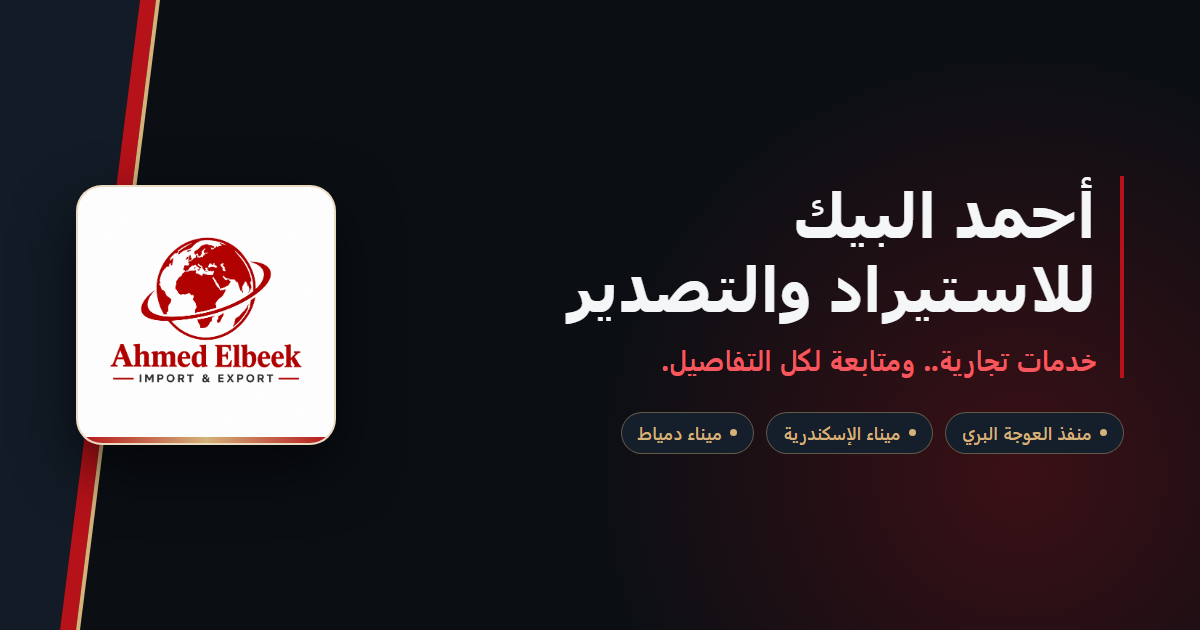
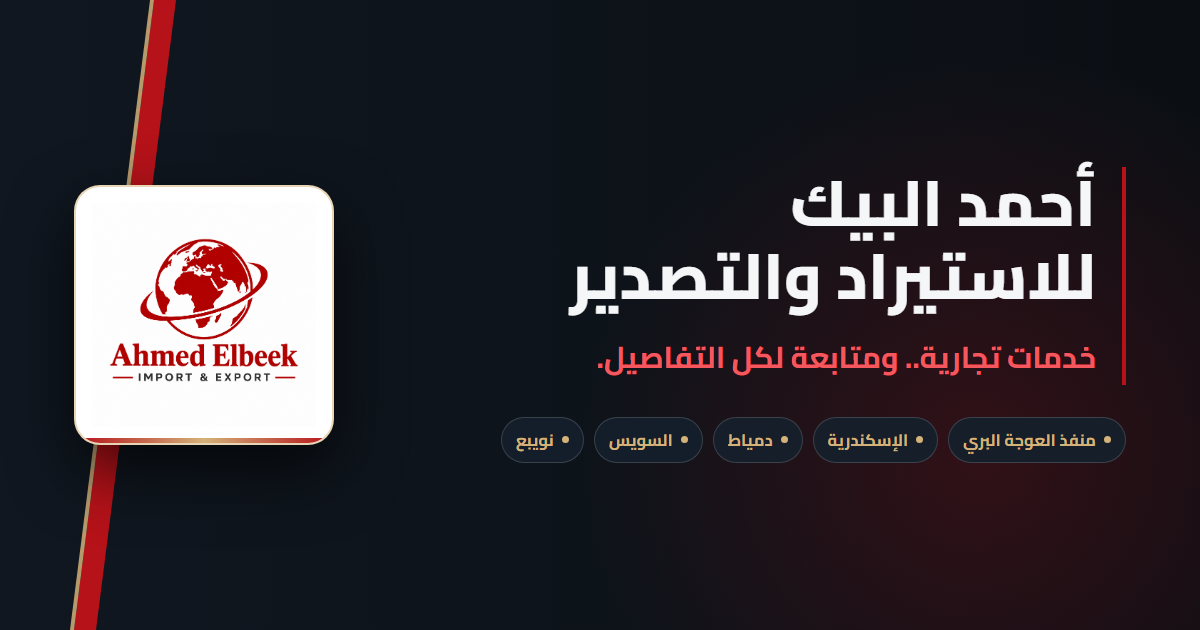
feat: add Suez and Nuweiba ports across content, locations, SEO, and OG cards

diff --git a/src/content/ar.ts b/src/content/ar.ts
@@ -6,7 +6,7 @@ export const arContent: SiteContent = {
   meta: {
     title: "أحمد البيك للاستيراد والتصدير | خدمات جمركية وشحن عبر المنافذ المصرية",
     description:
-      "شركة أحمد البيك للاستيراد والتصدير: خدمات الاستيراد والتصدير والتخليص الجمركي وتنسيق نقل البضائع عبر منفذ العوجة البري وميناء الإسكندرية وميناء دمياط.",
+      "شركة أحمد البيك للاستيراد والتصدير: خدمات الاستيراد والتصدير والتخليص الجمركي وتنسيق نقل البضائع عبر منفذ العوجة البري وموانئ الإسكندرية ودمياط والسويس ونويبع.",
   },
   brand: {
     title: "أحمد البيك",
@@ -32,12 +32,12 @@ export const arContent: SiteContent = {
     skipToContent: "تخطي إلى المحتوى الرئيسي",
   },
   hero: {
-    ports: ["منفذ العوجة البري", "ميناء الإسكندرية", "ميناء دمياط"],
+    ports: ["منفذ العوجة البري", "الإسكندرية", "دمياط", "السويس", "نويبع"],
     headlineLine1: "أحمد البيك",
     headlineLine2: "للاستيراد والتصدير",
     subheadline: "خدمات تجارية.. ومتابعة لكل التفاصيل.",
     description:
-      "خدمات الاستيراد والتصدير والتخليص الجمركي وتنسيق نقل البضائع عبر منافذ العوجة ودمياط والإسكندرية، بمتابعة دقيقة لكل شحنة.",
+      "خدمات الاستيراد والتصدير والتخليص الجمركي وتنسيق نقل البضائع عبر منافذ العوجة والإسكندرية ودمياط والسويس ونويبع، بمتابعة دقيقة لكل شحنة.",
     primaryCta: "تواصل معنا عبر واتساب",
     secondaryCta: "اكتشف خدماتنا",
     yardAlt: "ساحة منفذ العوجة البري وقت الغروب مع اصطفاف الشاحنات والعلم المصري",
@@ -48,8 +48,8 @@ export const arContent: SiteContent = {
       {
         id: "ports-covered",
         icon: "ports",
-        title: "3 منافذ رئيسية مغطاة",
-        subtitle: "العوجة • الإسكندرية • دمياط",
+        title: "5 منافذ رئيسية مغطاة",
+        subtitle: "العوجة • الإسكندرية • دمياط • السويس • نويبع",
       },
       {
         id: "import-export",
@@ -81,7 +81,7 @@ export const arContent: SiteContent = {
     pillars: [
       {
         label: "نطاق التشغيل",
-        value: "منافذ برية وبحرية رئيسية (العوجة، الإسكندرية، دمياط)",
+        value: "منافذ برية وبحرية رئيسية (العوجة، الإسكندرية، دمياط، السويس، نويبع)",
       },
       {
         label: "مجال العمل",
@@ -154,7 +154,7 @@ export const arContent: SiteContent = {
     eyebrow: "نطاق عملنا",
     heading: "تواجد فعلي في أهم المنافذ.",
     description:
-      "تنفذ الشركة عملياتها عبر شبكة من المنافذ البرية والبحرية المحورية في مصر، مع حضور ميداني في منفذ العوجة البري وميناء الإسكندرية وميناء دمياط.",
+      "تنفذ الشركة عملياتها عبر شبكة من المنافذ البرية والبحرية المحورية في مصر، مع حضور وتنسيق ميداني في منفذ العوجة البري وموانئ الإسكندرية ودمياط والسويس ونويبع.",
     items: [
       {
         id: "al-awja",
@@ -183,6 +183,20 @@ export const arContent: SiteContent = {
         imageSrc: "/images/damietta-port.jpg",
         imageAlt: "برج المراقبة البحرية والوحدات الملاحية في ميناء دمياط",
         objectPosition: "50% 48%",
+      },
+    ],
+    secondaryPorts: [
+      {
+        id: "suez",
+        name: "ميناء السويس",
+        typeBadge: "ميناء بحري",
+        role: "تنسيق إجراءات التخليص الجمركي وحركة الشحنات والحاويات الواردة والصادرة عبر ميناء السويس.",
+      },
+      {
+        id: "nuweiba",
+        name: "ميناء نويبع",
+        typeBadge: "ميناء بحري",
+        role: "متابعة حركة الشاحنات والبضائع وتنسيق الإجراءات الجمركية للعبور عبر ميناء نويبع.",
       },
     ],
     flexibilityNote:
@@ -273,7 +287,7 @@ export const arContent: SiteContent = {
   },
   footer: {
     summary:
-      "خدمات الاستيراد والتصدير والتخليص الجمركي وتنسيق نقل البضائع عبر منفذ العوجة البري وميناء الإسكندرية وميناء دمياط.",
+      "خدمات الاستيراد والتصدير والتخليص الجمركي وتنسيق نقل البضائع عبر منفذ العوجة البري وموانئ الإسكندرية ودمياط والسويس ونويبع.",
     navigationTitle: "روابط سريعة",
     contactTitle: "بيانات التواصل",
     copyright: "© 2026 أحمد البيك للاستيراد والتصدير. جميع الحقوق محفوظة.",

diff --git a/src/content/en.ts b/src/content/en.ts
@@ -6,7 +6,7 @@ export const enContent: SiteContent = {
   meta: {
     title: "Ahmed Elbeek Import & Export | Customs Clearance & Port Logistics",
     description:
-      "Ahmed Elbeek Import & Export provides import, export, customs clearance, and cargo transport coordination across Al-Awja Land Port, Alexandria Port, and Damietta Port.",
+      "Ahmed Elbeek Import & Export provides import, export, customs clearance, and cargo transport coordination across Al-Awja Land Port and Alexandria, Damietta, Suez, and Nuweiba ports.",
   },
   brand: {
     title: "Ahmed Elbeek",
@@ -32,12 +32,12 @@ export const enContent: SiteContent = {
     skipToContent: "Skip to main content",
   },
   hero: {
-    ports: ["Al-Awja Land Port", "Alexandria Port", "Damietta Port"],
+    ports: ["Al-Awja Land Port", "Alexandria", "Damietta", "Suez", "Nuweiba"],
     headlineLine1: "Ahmed Elbeek",
     headlineLine2: "Import & Export",
     subheadline: "Trade Services. Every Detail Followed.",
     description:
-      "Import, export, customs clearance, and cargo transport coordination across Al-Awja, Damietta, and Alexandria ports with dedicated follow-up.",
+      "Import, export, customs clearance, and cargo transport coordination across Al-Awja, Alexandria, Damietta, Suez, and Nuweiba ports with dedicated follow-up.",
     primaryCta: "Contact via WhatsApp",
     secondaryCta: "Explore Services",
     yardAlt: "Twilight view of Al-Awja Land Port yard with cargo trucks and the Egyptian flag",
@@ -48,8 +48,8 @@ export const enContent: SiteContent = {
       {
         id: "ports-covered",
         icon: "ports",
-        title: "3 Key Ports Covered",
-        subtitle: "Al-Awja • Alexandria • Damietta",
+        title: "5 Key Ports Covered",
+        subtitle: "Al-Awja • Alexandria • Damietta • Suez • Nuweiba",
       },
       {
         id: "import-export",
@@ -81,7 +81,7 @@ export const enContent: SiteContent = {
     pillars: [
       {
         label: "Operating Scope",
-        value: "Key land & sea gateways (Al-Awja, Alexandria, Damietta)",
+        value: "Key land & sea gateways (Al-Awja, Alexandria, Damietta, Suez, Nuweiba)",
       },
       {
         label: "Core Services",
@@ -155,7 +155,7 @@ export const enContent: SiteContent = {
     eyebrow: "Operating Locations",
     heading: "Active Presence Across Key Gateways.",
     description:
-      "Operations are coordinated across major Egyptian land and sea ports, with active coverage at Al-Awja Land Port, Alexandria Port, and Damietta Port.",
+      "Operations are coordinated across major Egyptian land and sea ports, covering Al-Awja Land Port along with Alexandria, Damietta, Suez, and Nuweiba maritime ports.",
     items: [
       {
         id: "al-awja",
@@ -184,6 +184,20 @@ export const enContent: SiteContent = {
         imageSrc: "/images/damietta-port.jpg",
         imageAlt: "Port control tower and vessels at Damietta Port",
         objectPosition: "50% 48%",
+      },
+    ],
+    secondaryPorts: [
+      {
+        id: "suez",
+        name: "Suez Port",
+        typeBadge: "Sea Port",
+        role: "Coordinating customs clearance, container handling, and commercial import/export cargo through Suez Port.",
+      },
+      {
+        id: "nuweiba",
+        name: "Nuweiba Port",
+        typeBadge: "Sea Port",
+        role: "Managing cargo transit, truck coordination, and customs clearance procedures at Nuweiba Port.",
       },
     ],
     flexibilityNote:
@@ -274,7 +288,7 @@ export const enContent: SiteContent = {
   },
   footer: {
     summary:
-      "Import, export, customs clearance, and freight coordination services across Al-Awja Land Port, Alexandria Port, and Damietta Port.",
+      "Import, export, customs clearance, and freight coordination services across Al-Awja Land Port and Alexandria, Damietta, Suez, and Nuweiba ports.",
     navigationTitle: "Quick Links",
     contactTitle: "Contact Details",
     copyright: "© 2026 Ahmed Elbeek Import & Export. All rights reserved.",

diff --git a/src/components/sections/LocationsSection.tsx b/src/components/sections/LocationsSection.tsx
@@ -101,7 +101,32 @@ export function LocationsSection({ content }: LocationsSectionProps) {
           </div>
         </div>
 
-        <RevealOnScroll delayMs={120}>
+        {content.locations.secondaryPorts && content.locations.secondaryPorts.length > 0 && (
+          <div className="mt-5 grid grid-cols-1 gap-5 sm:grid-cols-2 lg:gap-6">
+            {content.locations.secondaryPorts.map((port, index) => (
+              <RevealOnScroll key={port.id} delayMs={90 + index * 70}>
+                <article className="group flex h-full flex-col justify-between rounded-[16px] border border-white/10 bg-[#151F2B] p-5 transition-colors duration-200 hover:border-[#B51219]/45 hover:bg-[#192533] sm:p-6">
+                  <div>
+                    <div className="flex items-center justify-between gap-3">
+                      <h3 className="text-[19px] font-bold text-[#F5F6F7] sm:text-[20px]">
+                        {port.name}
+                      </h3>
+                      <span className="inline-flex shrink-0 items-center gap-1.5 rounded-full border border-[#D4B27A]/40 bg-[#0B0F14]/88 px-3 py-1 text-[12px] font-bold text-[#D4B27A]">
+                        <MapPin className="h-3.5 w-3.5 shrink-0" strokeWidth={2} aria-hidden="true" />
+                        <span>{port.typeBadge}</span>
+                      </span>
+                    </div>
+                    <p className="mt-2.5 text-[14.5px] leading-[1.7] text-[#A7B0BC] sm:text-[15px]">
+                      {port.role}
+                    </p>
+                  </div>
+                </article>
+              </RevealOnScroll>
+            ))}
+          </div>
+        )}
+
+        <RevealOnScroll delayMs={160}>
           <div className="mt-6 flex items-start gap-3 rounded-[14px] border border-white/10 bg-[#151F2B] p-4 sm:items-center sm:px-6">
             <Compass
               className="mt-0.5 h-5 w-5 shrink-0 text-[#D4B27A] sm:mt-0"

diff --git a/src/content/types.ts b/src/content/types.ts
@@ -37,6 +37,13 @@ export interface LocationItem {
   featured?: boolean;
 }
 
+export interface SecondaryPortItem {
+  id: string;
+  name: string;
+  typeBadge: string;
+  role: string;
+}
+
 export interface WorkPhotoItem {
   id: string;
   src: string;
@@ -111,6 +118,7 @@ export interface SiteContent {
     heading: string;
     description: string;
     items: LocationItem[];
+    secondaryPorts?: SecondaryPortItem[];
     flexibilityNote: string;
   };
   ourWork: {

diff --git a/src/components/layout/SiteShell.tsx b/src/components/layout/SiteShell.tsx
@@ -45,6 +45,8 @@ export function SiteShell({ content }: SiteShellProps) {
       { "@type": "Place", name: "Al-Awja Land Port" },
       { "@type": "Place", name: "Alexandria Port" },
       { "@type": "Place", name: "Damietta Port" },
+      { "@type": "Place", name: "Suez Port" },
+      { "@type": "Place", name: "Nuweiba Port" },
       { "@type": "Country", name: "Egypt" },
     ],
     ...(orgAddress ? { address: orgAddress } : {}),
